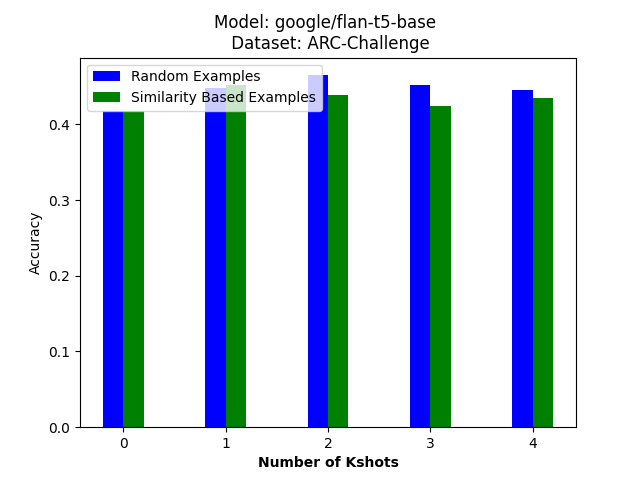
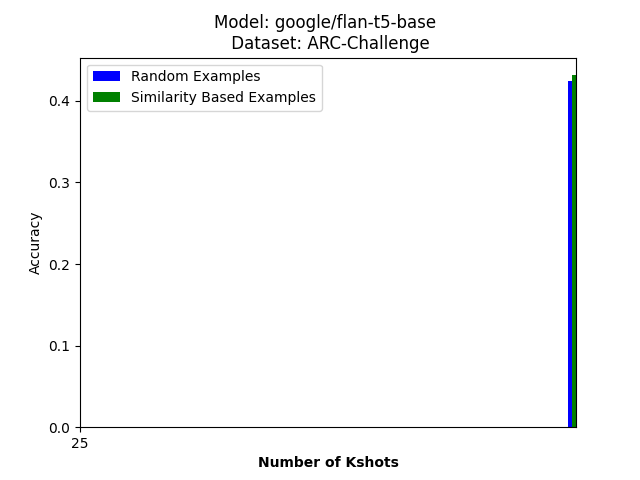
add baseline_framework.py, example_selectors.py and plots

diff --git a/baseline_framework.py b/baseline_framework.py
@@ -139,7 +139,8 @@ def experiment_models_on_dataset(args, validation_set, example_selector):
                               )
         accs.append(accuracy)
 
-def experiment_acc_over_k(args,  validation_set, examples_pool, max_kshot):
+
+def experiment_acc_over_k(args, validation_set, examples_pool, max_kshot):
     accs_rand = []
     accs_sim = []
 
@@ -149,25 +150,26 @@ def experiment_acc_over_k(args,  validation_set, examples_pool, max_kshot):
     sim_example_selector = example_selectors.SimilarityBasedExampleSelector(model_name=args.encoder_path,
                                                                             examples=examples_pool,
                                                                             key='question')
-
-    for k in tqdm(range(max_kshot), desc="Evaluating model on similarity-based kshot"):
+    k_range = [25]
+    for k in tqdm(k_range, desc="Evaluating model on similarity-based kshot"):
         args.kshot = k
         accuracy_sim, _, _ = evaluate_model(args, model, tokenizer, validation_set, sim_example_selector)
         accs_sim.append(accuracy_sim)
         print(f"kshot={args.kshot}, accuracy_sim={accuracy_sim * 100:.2f}")
 
-    for k in tqdm(range(max_kshot), desc="Evaluating model on random kshot"):
+    for k in tqdm(k_range, desc="Evaluating model on random kshot"):
         args.kshot = k
         accuracy_rand, _, _ = evaluate_model(args, model, tokenizer, validation_set, random_example_selector)
         accs_rand.append(accuracy_rand)
         print(f"kshot={args.kshot}, accuracy_rand={accuracy_rand * 100:.2f}% ")
-    width= 0.2
-    x =np.arange(max_kshot)
-    plt.bar(x, accs_rand,color='blue', width=width, label="Random Examples",align='center')
-    plt.bar(x+width, accs_sim,color='green', width=width, label="Similarity Based Examples",align='center')
+    width = 0.2
+    # x =np.arange(max_kshot)
+    x = np.array(k_range)
+    plt.bar(x, accs_rand, color='blue', width=width, label="Random Examples", align='center')
+    plt.bar(x + width, accs_sim, color='green', width=width, label="Similarity Based Examples", align='center')
     plt.legend()
-    plt.xticks([r + width/2 for r in range(len(x))], x)
-    plt.xlabel("Number of Kshots",fontweight='bold')
+    plt.xticks([r + width / 2 for r in range(len(x))], x)
+    plt.xlabel("Number of Kshots", fontweight='bold')
     plt.ylabel("Accuracy")
     plt.title(f"Model: {args.models[0]} \n Dataset: {args.dataset_name}")
     filename = f"{args.models[0].split('/')[1]}_{args.dataset_name}_acc_over_k.png".replace(
@@ -176,6 +178,7 @@ def experiment_acc_over_k(args,  validation_set, examples_pool, max_kshot):
         '.', '_').lower()
     plt.savefig(plots_dir / filename)
     plt.show()
+
 
 def main():
     # Argument parser for command-line options
